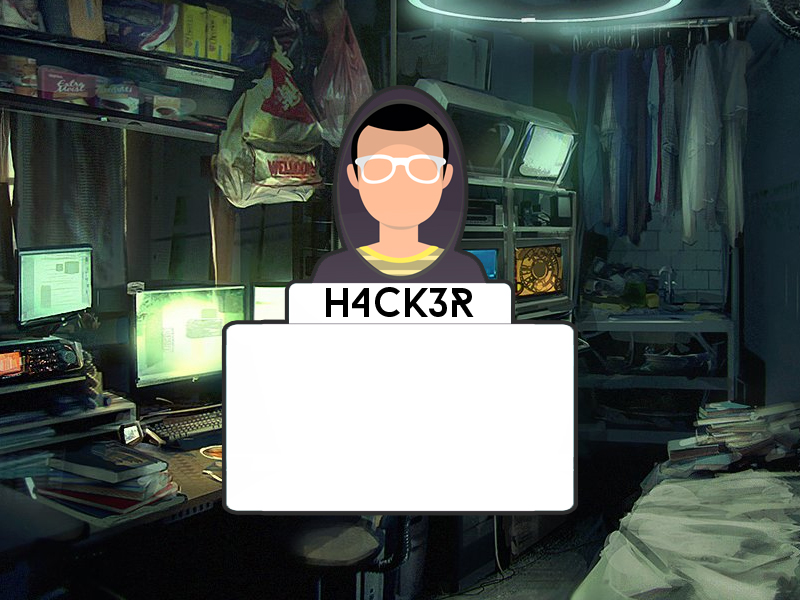
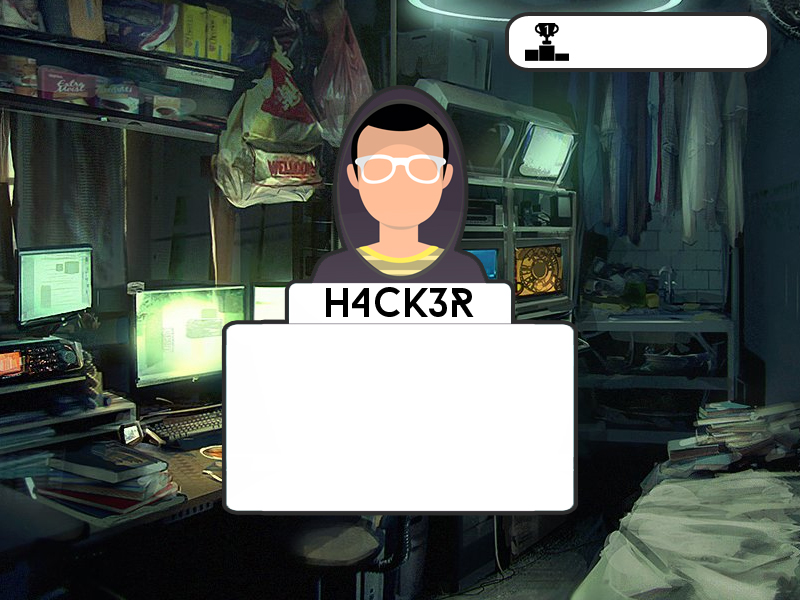
co bd

Changed region(s): [[0.625, 0.0, 0.9688, 0.12]]

diff --git a/useBD.py b/useBD.py
@@ -1,0 +1,119 @@
+import sqlite3
+
+class UseBd:
+    def __init__(self):
+        self.__conexao = sqlite3.connect("bd_Virus.db")
+
+    def create(self):
+        cursor = self.__conexao.cursor()
+        #cursor.execute('''drop table if exists Virus''')
+        cursor.execute('''create table if not exists Virus
+                        (id int, vida int, dinheiro int, unlockPuloDuplo int, unlockSuperPeso int, unlockPlanar int, score int) ''')
+        cursor.execute('''insert into Virus values (1, 1, 0, 0, 0, 0, 0)''')
+
+        cursor.close()
+        self.__conexao.commit()
+        #self.__conexao.close()
+
+    def insert(self, virus):
+        cursor = self.__conexao.cursor()
+        id = 1
+        vida = int(virus.vidaBase)
+        dinheiro = int(virus.dinheiro)
+        unlockPuloDuplo = virus.unlockPuloDuplo
+        unlockSuperPeso = virus.unlockSuperPeso
+        unlockPlanar = virus.unlockPlanar
+        score = int(virus.score)
+        cursor.execute('''insert into Virus values (?, ?, ?, ?, ?, ?, ?)''',
+        	[id, vida, dinheiro, unlockPuloDuplo, unlockSuperPeso, unlockPlanar, score])
+        cursor.close()
+        self.__conexao.commit()
+
+    def selectVida(self):
+        cursor = self.__conexao.cursor()
+        res = cursor.execute('''select vida from Virus''')
+        for row in res:
+            return row[0]
+        cursor.close()
+        self.__conexao.commit()
+        #return res
+
+    def selectDinheiro(self):
+        cursor = self.__conexao.cursor()
+        res = cursor.execute('''select dinheiro from Virus''')
+        for row in res:
+            return row[0]
+        cursor.close()
+        self.__conexao.commit()
+        #return res
+
+    def selectUnlockPuloDuplo(self):
+        cursor = self.__conexao.cursor()
+        res = cursor.execute('''select unlockPuloDuplo from Virus''')
+        for row in res:
+            return row[0]
+        cursor.close()
+        self.__conexao.commit()
+        #return res
+
+    def selectUnlockSuperPeso(self):
+        cursor = self.__conexao.cursor()
+        res = cursor.execute('''select unlockSuperPeso from Virus''')
+        for row in res:
+            return row[0]
+        cursor.close()
+        self.__conexao.commit()
+        #return res
+
+    def selectUnlockPlanar(self):
+        cursor = self.__conexao.cursor()
+        res = cursor.execute('''select unlockPlanar from Virus''')
+        for row in res:
+            return row[0]
+        cursor.close()
+        self.__conexao.commit()
+        #return res
+
+    def selectScore(self):
+        cursor = self.__conexao.cursor()
+        res = cursor.execute('''select score from Virus''')
+        for row in res:
+            return row[0]
+        cursor.close()
+        self.__conexao.commit()
+        #return res
+
+    def imprime(self):
+        cursor = self.__conexao.cursor()
+        res = cursor.execute('''select * from Virus''')
+        for row in res:
+            print((row))
+        cursor.close()
+        self.__conexao.commit()
+        return res
+
+    def update(self, virus):
+        cursor = self.__conexao.cursor()
+        id = 1
+        vida = virus.vidaBase
+        dinheiro = int(virus.dinheiro)
+        unlockPuloDuplo = virus.unlockPuloDuplo
+        unlockSuperPeso = virus.unlockSuperPeso
+        unlockPlanar = virus.unlockPlanar
+        score = int(virus.Hscore)
+        self.delete()
+        cursor.execute('''insert into Virus values (?, ?, ?, ?, ?, ?, ?)''',
+                       [id, vida, dinheiro, unlockPuloDuplo, unlockSuperPeso, unlockPlanar, score])
+        cursor.close()
+        self.__conexao.commit()
+
+
+    def delete(self):
+        cursor = self.__conexao.cursor()
+        id = 1
+
+        cursor.execute('''DELETE FROM Virus
+        WHERE id = ?''', [id])
+
+        cursor.close()
+        self.__conexao.commit()

diff --git a/main.py b/main.py
@@ -55,11 +55,15 @@ def jogo():
     cenario.controler()
 
     if(virus.vida <= 0):
+        if(virus.Hscore < virus.score):
+            virus.Hscore = virus.score
         menu.pag = 0
 
 def chamaMenu():
     MousePos = pygame.mouse.get_pos()
     menu.desenha(display)
+    scoref = virus.fonte.render(str(int(virus.Hscore)), 1, (0, 0, 0))
+    display.blit(scoref, (580, 20))
     if pygame.mouse.get_pressed() == (1, 0, 0) and menu.start.collidepoint(MousePos):
         virus.vida = virus.vidaBase
         virus.score = 0
@@ -74,12 +78,13 @@ def chamaMenu():
 def chamaUpgrade():
     MousePos = pygame.mouse.get_pos()
     upgrade.desenha(display,virus)
+    #upgrade.precoVida = 3 * virus.vidaBase
     if pygame.mouse.get_pressed() == (1, 0, 0) and upgrade.menuBtn.collidepoint(MousePos):
         menu.pag = 0
     if pygame.mouse.get_pressed() == (1, 0, 0) and upgrade.vidaBtn.collidepoint(MousePos) and virus.dinheiro >= upgrade.precoVida:
         virus.vidaBase +=1
         virus.dinheiro -= upgrade.precoVida
-        upgrade.precoVida *= 1.4
+        upgrade.precoVida = 3 * virus.vidaBase
         upgrade.precoVida = int(upgrade.precoVida)
     if pygame.mouse.get_pressed() == (1, 0, 0) and upgrade.planarBtn.collidepoint(MousePos) and virus.dinheiro >= upgrade.precoPlanar and not virus.unlockPlanar:
         virus.unlockPlanar = True
@@ -106,10 +111,13 @@ cenario.criaMoedas()
 cenario.criaAntivirus()
 cenario.criaAvast()
 
+pygame.mixer.music.load("MusicaJogo.mp3")
+pygame.mixer.music.play(loops=-1)
 
 while True:
     for event in pygame.event.get():
         if event.type == pygame.QUIT:
+            virus.salvaBD()
             exit()
 
     if(menu.pag == 0):

diff --git a/Virus.py b/Virus.py
@@ -1,12 +1,18 @@
 import pygame, sys, random,glob
-
+import sqlite3
+from  useBD import UseBd
+BD= UseBd()
+BD.create()
+BD.imprime()
 class Virus():
     #Declara atributos da classe
     def __init__ (self):
+
         self.score = 0
+        self.Hscore = BD.selectScore()
         self.vida = 1
-        self.vidaBase = 1
-        self.dinheiro = 2500
+        self.vidaBase = BD.selectVida()
+        self.dinheiro = 5000#BD.selectDinheiro()
         self.y = 500
         self.x = 200
         self.velPulo = 0
@@ -28,11 +34,16 @@ class Virus():
         self.estado = "correndo" ## "pulando" ## "planando"
         self.col = pygame.Rect(self.x,self.y,60,60)
         self.fonte = pygame.font.Font("Eastwood.ttf", 30)
-        self.unlockPlanar = False
-        self.unlockPuloDuplo = False
-        self.unlockSuperPeso = False
+        self.unlockPlanar = BD.selectUnlockPlanar()
+        self.unlockPuloDuplo = BD.selectUnlockPuloDuplo()
+        self.unlockSuperPeso = BD.selectUnlockSuperPeso()
 
-        # desenhar jogador
+
+    # desenhar jogador
+    def salvaBD(self):
+        print("save")
+        BD.update(self)
+        #BD.imprime()
     def desenha(self,display):
         self.col = pygame.Rect(self.x, self.y, 76, 76)
         self.score += 0.1
